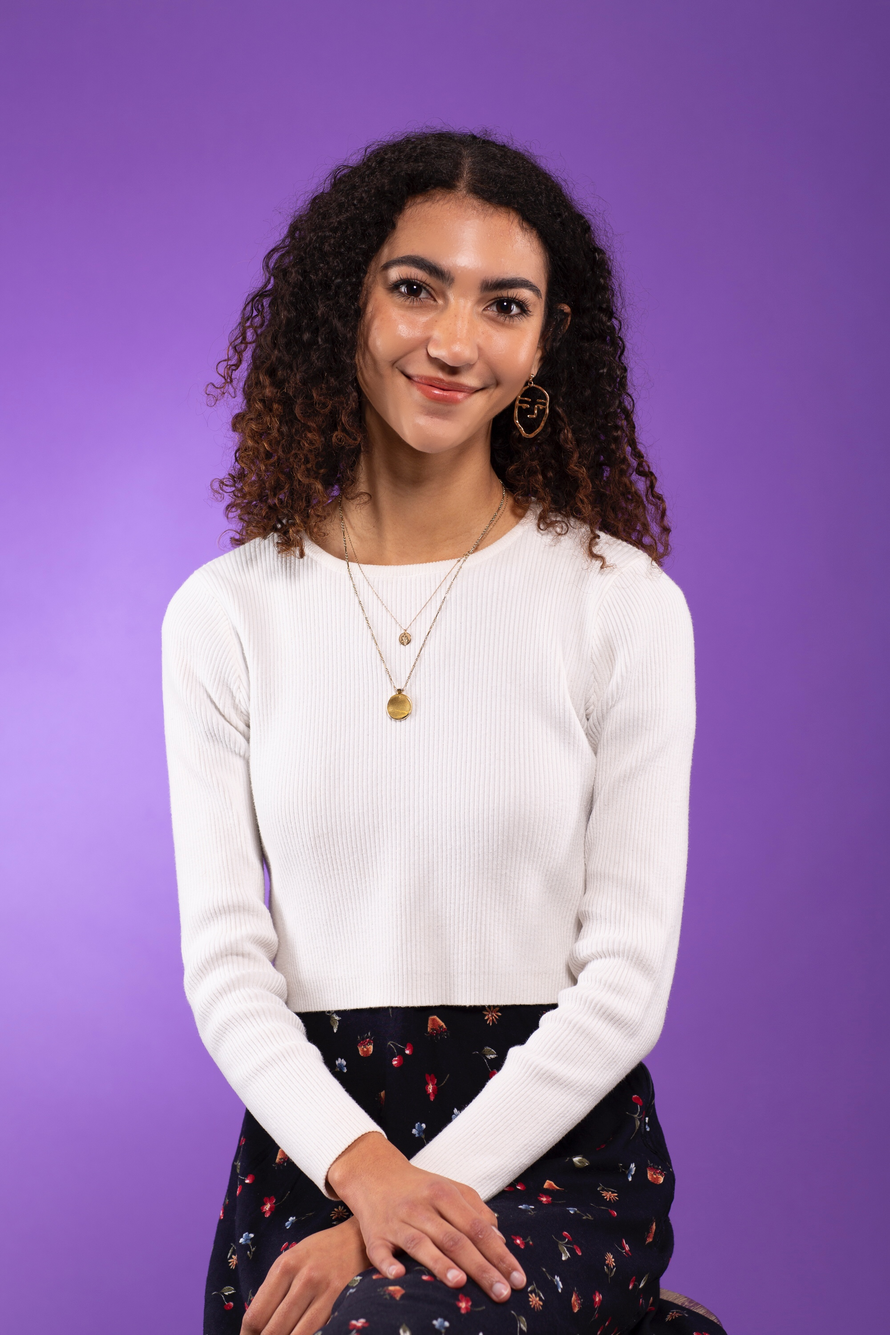
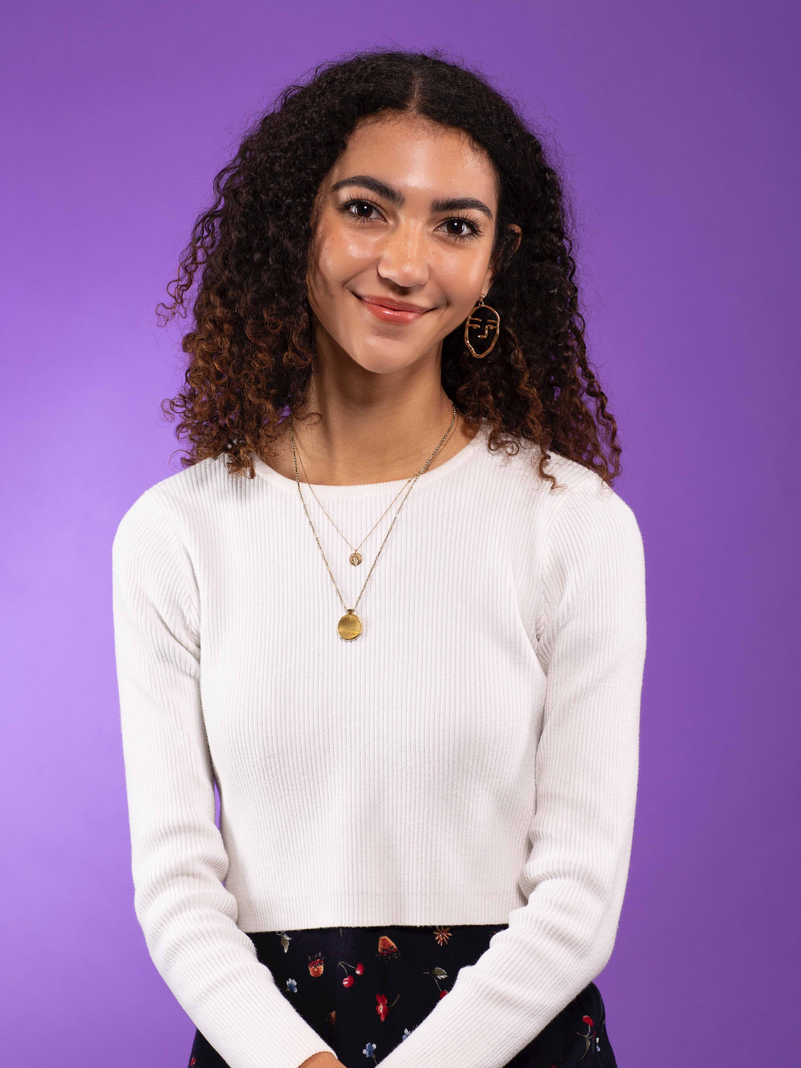
fixing ooi images on site

Changed region(s): [[0.0, 0.0312, 0.8089, 1.0], [0.3422, 0.5938, 0.4044, 0.6562]]

diff --git a/asuw.html b/asuw.html
@@ -5,8 +5,8 @@
     <title></title>
   </head>
   <body>
-    <img src="asuw images\noraaaaaaa.jpeg">
+    <img src="asuw images\nora_siteimage.jpeg">
     <img src="asuw images\softsmile.100.JPG">
-    <img src="asuw images\Y1804403.JPEG">
+    <img src="asuw images\nicole_siteimage.JPEG">
   </body>
 </html>
